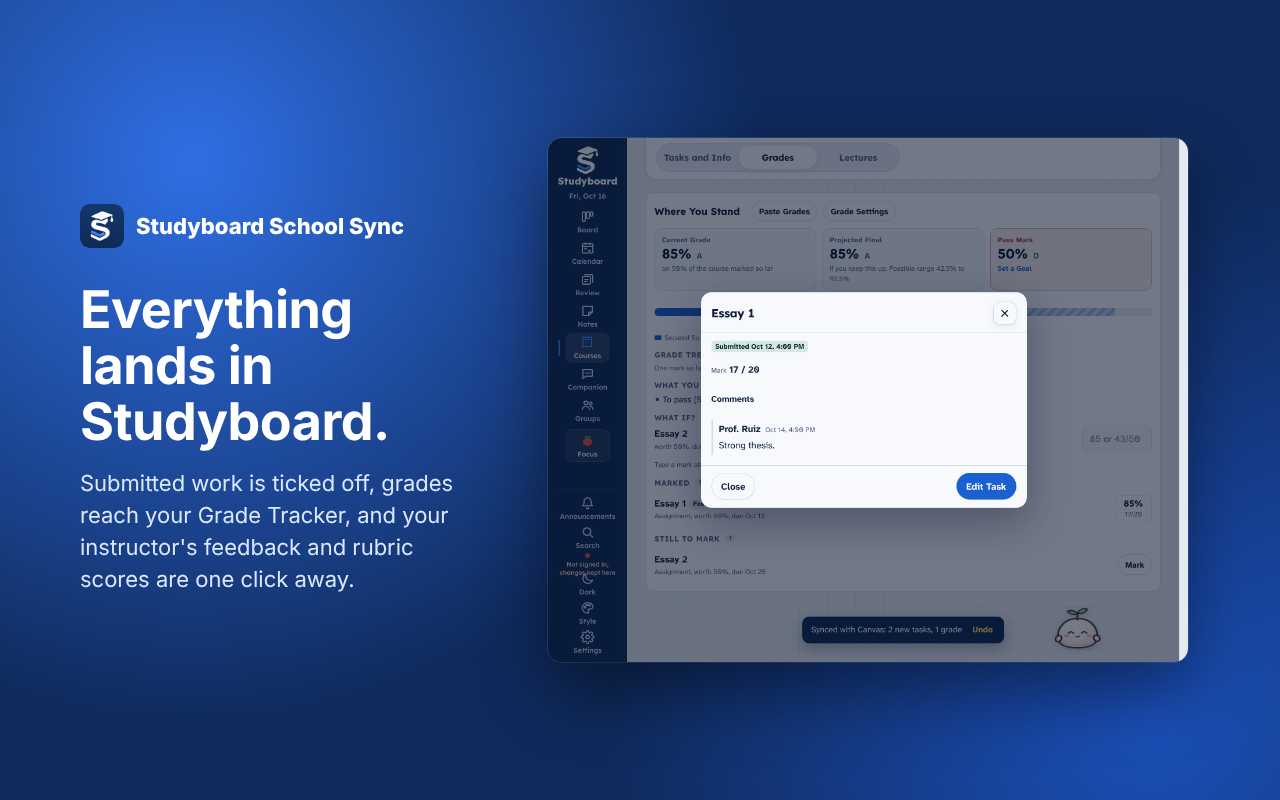
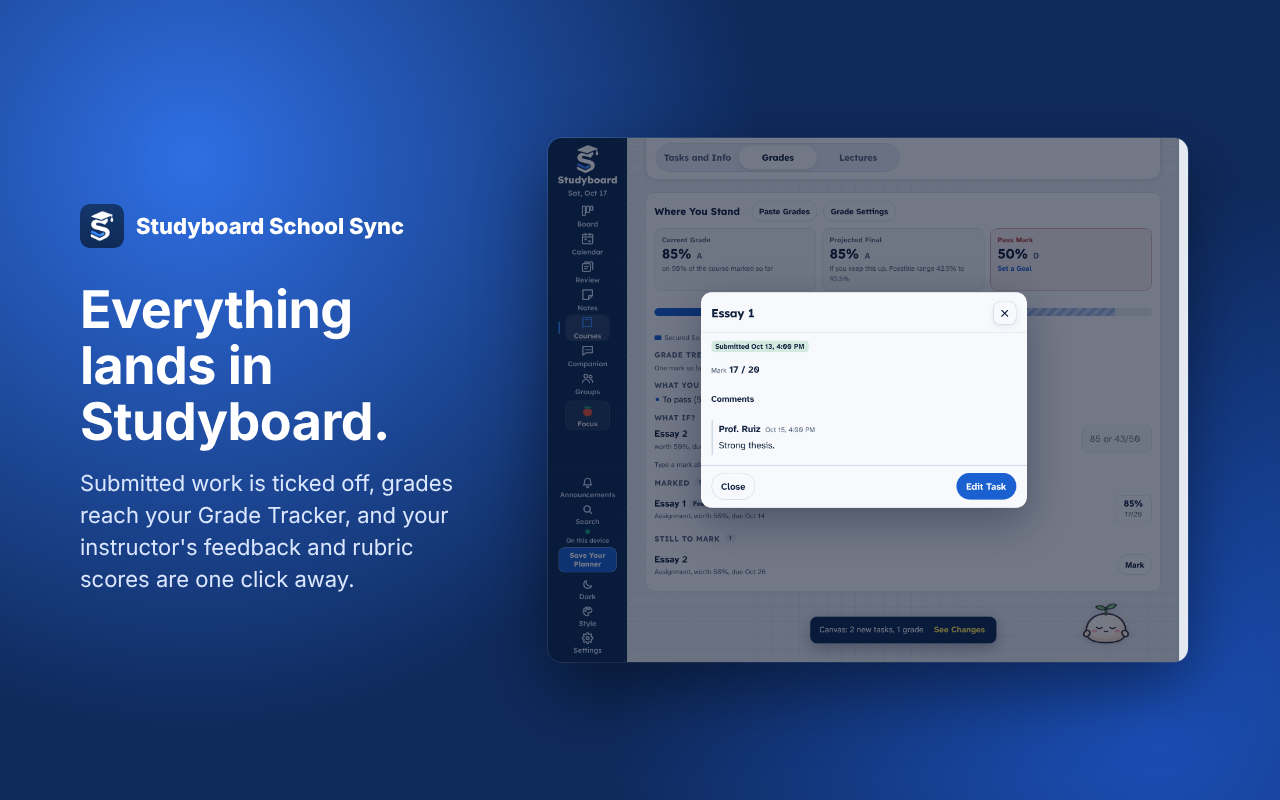
School Sync store pictures from the current build, and the listing mentions every 15 minutes and opening Studyboard
The screenshots showed version 1.0.0, the old popup wording and, behind the feedback sheet, Studyboard's
"Not signed in" warning; they're made again from 1.0.2 with Studyboard opened without an account, the way a new
student sees it. The extension test opens Studyboard that way too. Firefox package: addons-linter 0 errors,
0 warnings, 0 notices.

Claude-Session: https://claude.ai/code/session_01AG9w3NvkTCVKnmA1EuqCWh

diff --git a/tests/extension.e2e.js b/tests/extension.e2e.js
@@ -81,7 +81,7 @@ const until = async (fn, ms, what) => { const end = Date.now() + ms; for (;;) { 
     await pop.setViewportSize({width: 360, height: 200}); await pop.screenshot({path: path.join(OUT, "extension-popup-synced.png"), fullPage: true});
     // Studyboard on studyboardapp.com picks it up
     const app = await ctx.newPage(); app.on("pageerror", e => errs.push("app: " + e.message));
-    await app.addInitScript(() => { try { if (!localStorage.getItem("coursework:v2")) { localStorage.setItem("coursework:v2", JSON.stringify({v: 2, updated: 1, courses: [], tasks: [], settings: {}})); localStorage.setItem("sb:onboarded", "1"); localStorage.setItem("studioso:welcomed", "1"); } } catch (e) {} });
+    await app.addInitScript(() => { try { if (!localStorage.getItem("coursework:v2")) { localStorage.setItem("coursework:v2", JSON.stringify({v: 2, updated: 1, courses: [], tasks: [], settings: {}})); localStorage.setItem("sb:onboarded", "1"); localStorage.setItem("studioso:welcomed", "1"); localStorage.setItem("studioso:sb", JSON.stringify("local")); } } catch (e) {} });   // a student using Studyboard without an account
     await app.goto(APP + "/"); await app.waitForFunction(() => window.SBLMS && window.SBEXT);
     await until(() => app.evaluate(() => SBEXT.on()), 15000, "the app sees the extension");
     ok(true, "the Studyboard website sees the extension through relay.js");

diff --git a/extension/STORE-LISTING.md b/extension/STORE-LISTING.md
@@ -22,7 +22,7 @@ After each listing goes live, put its address in `EXT_STORE` in `index.html` (se
 **Description:**
 > Studyboard School Sync keeps your Studyboard planner in step with your school's learning platform, automatically.
 >
-> Connect your school site once. Every hour, and whenever you open the site, the extension reads your due dates, what you've submitted (and whether it was late, is missing or got an extension), your grades, your instructor's feedback and rubric scores, announcements, your teaching team and the course syllabus. Open Studyboard at studyboardapp.com in the same browser and it's all there:
+> Connect your school site once. Every hour (or as often as every 15 minutes), whenever you open the site and whenever you open Studyboard, the extension reads your due dates, what you've submitted (and whether it was late, is missing or got an extension), your grades, your instructor's feedback and rubric scores, announcements, your teaching team and the course syllabus. Open Studyboard at studyboardapp.com in the same browser and it's all there:
 > • New assignments, quizzes and discussions become tasks with their due dates
 > • Work you've handed in is ticked off for you
 > • Grades go to your Grade Tracker, and the feedback is one click away
